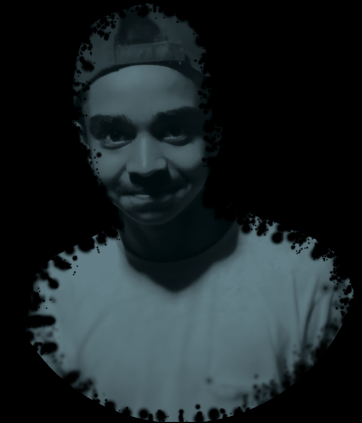
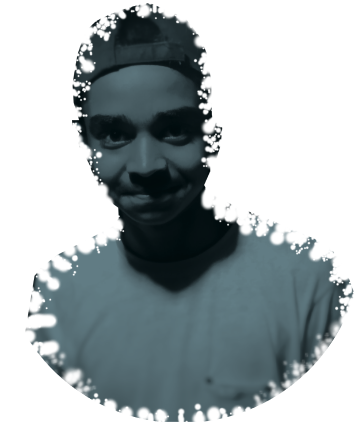
site 1st update skew deleted

diff --git a/css/style.css b/css/style.css
@@ -28,7 +28,7 @@ body {
 
 #header {
   background: #000;
-  height: 104vh;
+  height: 100vh;
   width: 100%;
   position: relative;
   overflow: hidden;
@@ -374,7 +374,6 @@ ul li a:hover {
 #section {
   background: rgb(44, 44, 44);
   height: 100vh;
-  transform: skewY(2deg);
 }
 
 .about-content {
@@ -394,11 +393,12 @@ ul li a:hover {
 .about h1 {
   font-size: 3rem;
   margin-bottom: 1.5rem;
-  text-shadow: 0.75px 0.75px 1px #000, 0 0 .75em rgb(26, 25, 25), 0 0 0.1em #fff;
+  text-shadow: 0 0 1px #fff;
 }
 
 .about p {
-  margin-bottom: 1.5rem;
+  margin-bottom: 3rem;
+  text-shadow: 0 0 0.85px #fff;
 }
 
 .about a {
@@ -413,95 +413,31 @@ ul li a:hover {
   color: rgb(39, 39, 39);
 }
 
-
-/* Rotate Box */
-
-.rotating-box {
-  width: 400px;
-  height: 400px;
-  margin: 20px auto;
-  perspective: 3000px;
-}
-
-.single-rb {
-  width: 400px;
-  animation: rotate 10s linear infinite;
-  transform-style: preserve-3d;
-}
-
-.single-rb img {
-  height: 400px;
-  width: 400px;
-}
-
-.single-rb div {
-  position: absolute;
-  width: 400px;
-  height: 400px;
-}
-
-.front-side {
-  transform: translateZ(200px);
-}
-
-.back-side {
-  transform: rotateY(180deg) translateZ(200px);
-}
-
-.left-side {
-  transform: rotateY(-90deg) translateX(-200px);
-  transform-origin: left;
-}
-
-.right-side {
-  transform: rotateY(90deg) translateX(200px);
-  transform-origin: right;
-}
-
-.top-side {
-  transform: rotateX(-90deg) translateY(-200px);
-  transform-origin: top;
-}
-
-.bottom-side {
-  transform: rotateX(90deg) translateY(200px);
-  transform-origin: bottom;
-}
-
-@keyframes rotate{
-  0% {
-    transform: rotateY(0);
-  }
-
-  100% {
-    transform: rotateY(360deg);
-  }
-}
-
-
 /* Skils */
 
 #section-2 {
-  height: 60vh;
+  height:80vh;
 }
 
 .skills {
-  width: 500px;
-  margin: 4rem auto;
+  max-width: 1000px;
+  margin: 200px auto;
 }
 
 .skills h1 {
   font-size: 3rem;
-  text-shadow: 0 0 7px #ffd500;
+  text-align: center;
+  margin-bottom: 2rem;
 }
 
 .skills h3 {
   font-size: 2rem;
-  text-shadow: 0 0 7px #ffd500;
+  text-shadow: 0 0 1px #ffd500;
+  margin-top: 2rem;
 }
 
 .skills li {
-  margin: 1.5rem 0;
+  margin: 2rem 0;
 }
 
 .border {
@@ -511,7 +447,7 @@ ul li a:hover {
   border: 1px solid rgba(255, 255, 255, 0.377);
   border-radius: 10rem;
   overflow: hidden;
-  box-shadow: 0 0 15px #ffd500;
+  box-shadow: 0 0 5px #ffd500;
 }
 
 .border span {
@@ -624,7 +560,7 @@ ul li a:hover {
 }
 
 .box-container .card .box:hover {
-  transform: translateY(-50px);
+  transform: translateY(-100px);
 }
 
 .box-container .card .box .box-content {
@@ -727,14 +663,63 @@ ul li a:hover {
   color: #000;
 }
 
-.social-content a > i {
-  padding: 0 3rem;
-  font-size: 2rem;
-  transition: 1s;
+
+.social-content a {
+  display: inline-block;
+  position: relative;
+  background: #fff;
+  width: 75px;
+  height: 75px;
+  margin: 20px 20px;
+  border-radius: 24px;
+  box-shadow: -5px -5px 11px rgba(255, 255, 255, 0), 
+          5px 5px 11px rgba(0,0,0,15);
+  transition: .2s linear;
+  overflow: hidden;
+  font-size: 28px;
 }
 
-.social-content a > i:hover {
-  color: red;
+.social-content a:hover {
+    border-radius: 50%;
+    transform: scale(1.3);
+}
+
+.social-content a i::before {
+  position: absolute;
+  width: 100%;
+  height: 100%;
+  text-align: center;
+  background-image: linear-gradient(135deg,#000000 30%,#000000b6 50%);
+  background-size: 200% 200%;
+  background-position: -75% -75%;
+  top: 0;
+  left: 0;
+  line-height: 80px;
+  -webkit-text-fill-color: transparent;
+  -webkit-background-clip: text;
+  transition: background .5s linear;
+}
+
+a:hover i::before {
+  background-position: 0% 0%;
+}
+
+.social-content a .fa-twitter::before {
+  background-image: linear-gradient(140deg, #1da1f2 25%, #000000 45%);
+}
+
+.social-content a .fa-youtube::before {
+  background-image: linear-gradient(140deg, #ec0101 25%, #000000 45%);
+}
+
+
+.social-content a .fa-instagram::before {
+  background-image: linear-gradient(140deg, #f13939 25%, #000000 45%);
+}
+
+
+.social-content a .fa-facebook-f::before {
+  background-image: linear-gradient(140deg, #29487d 25%, #000000 45%);
 }
 
 /* footer */

diff --git a/index.html b/index.html
@@ -101,29 +101,7 @@
   <section id="section">
     <div class="container">
       <div class="about-content">
-        <div class="rotating-box">
-          <h1></h1>
-          <div class="single-rb">
-            <div class="front-side">
-              <img src="/img/sayem123763t87.jpg" alt="">
-            </div>
-            <div class="back-side">
-              <img src="/img/sayem.png" alt="">
-            </div>
-            <div class="left-side">
-              <img src="img/IMG20200807171833.jpg" alt="">
-            </div>
-            <div class="right-side">
-              <img src="/img/20200802_162929.jpg" alt="">
-            </div>
-            <div class="top-side">
-              <img src="/img/20200802_170607.jpg" alt="">
-            </div>
-            <div class="bottom-side">
-              <img src="/img/IMG20200807171833.jpg" alt="">
-            </div>
-          </div>
-        </div>
+        <img src="/img/sayem.png" alt="">
         <div class="about">
           <h1>About Me</h1>
           <p>My name is Md Imrul Kayes Sayem. I am 17 years old. I have born on 2003-09-01. I read in class 10. I am learning web development at my house. 

diff --git a/css/mobile.css b/css/mobile.css
@@ -28,77 +28,18 @@ ul li {
 
 
 /* about */
-
-
-.rotating-box {
-  width: 200px;
-  height: 200px;
+#section {
+  height: 120vh;
 }
 
-.single-rb {
-  width: 200px;
-}
-
-.single-rb img {
-  height: 200px;
-  width: 200px;
-}
-
-.single-rb div {
-  width: 200px;
-  height: 200px;
-}
-
-.front-side {
-  transform: translateZ(100px);
-}
-
-.back-side {
-  transform: rotateY(180deg) translateZ(100px);
-}
-
-.left-side {
-  transform: rotateY(-90deg) translateX(-100px);
-  transform-origin: left;
-}
-
-.right-side {
-  transform: rotateY(90deg) translateX(100px);
-  transform-origin: right;
-}
-
-.top-side {
-  transform: rotateX(-90deg) translateY(-100px);
-  transform-origin: top;
-}
-
-.bottom-side {
-  transform: rotateX(90deg) translateY(100px);
-  transform-origin: bottom;
-}
-
-/* Skils */
+/* Skills */
 
 
 .skills {
-  width: 250px;
+  width: 290px;
+  padding: 5rem ;
 }
 
-.skills h1 {
-  font-size: 2rem;
-}
-
-.skills h3 {
-  font-size: 1.5rem;
-}
-
-.skills li {
-  margin: 1.5rem 0;
-}
-
-.border {
-  height: 20px;
-}
 
 /* Contact */
 

diff --git a/contact.html b/contact.html
@@ -33,10 +33,10 @@
         <div class="social-content">
           <h2>Social Media</h2>
           <div class="social-icon">
-            <a href="#"><i class="fab fa-twitter"></i></a>
-            <a href="#"><i class="fab fa-youtube"></i></a>
-            <a href="#"><i class="fab fa-instagram"></i></a>
-            <a href="#"><i class="fab fa-facebook-f"></i></a>
+            <a href="https://twitter.com/imrulkayessayem" target="_blank"><i class="fab fa-twitter"></i></a>
+            <a href="https://www.youtube.com/channel/UC200ks8sTUgKvocsIxpDAxA?view_as=subscriber" target="_blank"><i class="fab fa-youtube"></i></a>
+            <a href="https://www.instagram.com/md_imrul01/" target="_blank"><i class="fab fa-instagram" target="_blank"></i></a>
+            <a href="https://web.facebook.com/mdimrulkayes.sayem.7" target="_blank"><i class="fab fa-facebook-f"></i></a>
           </div>
         </div>
 
